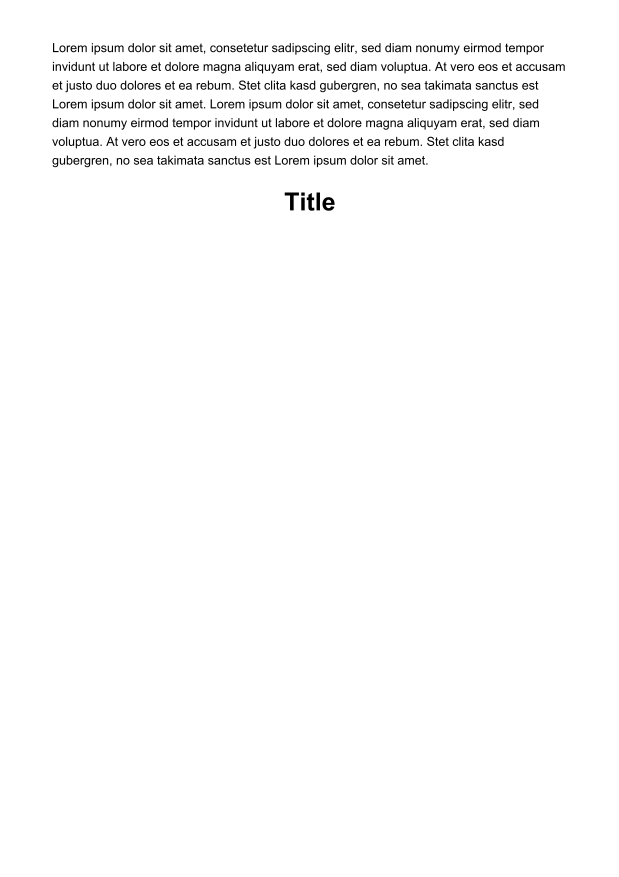
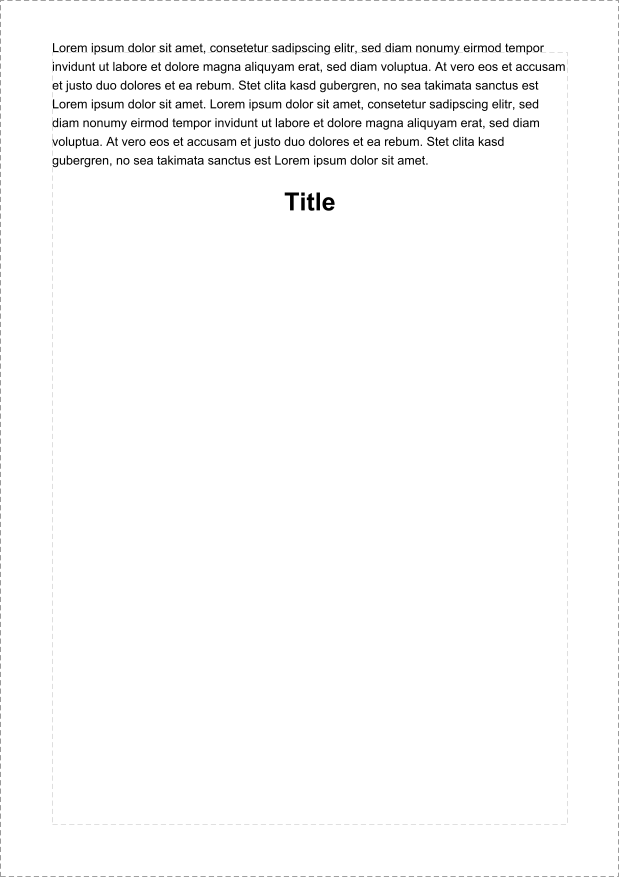
page borders

Changed region(s): [[0.9822, 0.9852, 1.0, 1.0]]

diff --git a/src/test/java/de/flapdoodle/pdf/howto/PageBorders.java b/src/test/java/de/flapdoodle/pdf/howto/PageBorders.java
@@ -1,0 +1,64 @@
+/*
+ * Copyright (C) 2016
+ *   Michael Mosmann <michael@mosmann.de>
+ *
+ * Licensed under the Apache License, Version 2.0 (the "License");
+ * you may not use this file except in compliance with the License.
+ * You may obtain a copy of the License at
+ *
+ *         http://www.apache.org/licenses/LICENSE-2.0
+ *
+ * Unless required by applicable law or agreed to in writing, software
+ * distributed under the License is distributed on an "AS IS" BASIS,
+ * WITHOUT WARRANTIES OR CONDITIONS OF ANY KIND, either express or implied.
+ * See the License for the specific language governing permissions and
+ * limitations under the License.
+ */
+package de.flapdoodle.pdf.howto;
+
+import com.lowagie.text.Document;
+import com.lowagie.text.Rectangle;
+import com.lowagie.text.pdf.PdfContentByte;
+import com.lowagie.text.pdf.PdfPageEvent;
+import com.lowagie.text.pdf.PdfWriter;
+import de.flapdoodle.pdf.pages.EnhancedPdfPageEventHelper;
+import de.flapdoodle.pdf.pages.PageBox;
+import de.flapdoodle.pdf.pages.PdfPageEvents;
+
+import java.awt.*;
+
+public class PageBorders {
+	public static PdfPageEvent renderDocumentHints() {
+		return new EnhancedPdfPageEventHelper() {
+			@Override
+			public void onEndPage(PdfWriter writer, Document document) {
+				PdfContentByte canvas = writer.getDirectContent();
+
+				canvas.saveState();
+
+//				canvas.setLineWidth(1f);
+				canvas.setLineDash(5f, 3f, 0f);  // 5pt Strich, 3pt Lücke
+
+				Rectangle innerBox = PageBox.innerBox(document).asRectangle();
+				innerBox.setBorder(Rectangle.BOX);
+				innerBox.setBorderColor(Color.LIGHT_GRAY);
+				innerBox.setBorderWidth(0.5f);
+				canvas.rectangle(innerBox);
+				canvas.stroke();
+
+				Rectangle pageBox = PageBox.fullPageBox(document).asRectangle();
+				pageBox.setBorder(Rectangle.BOX);
+				pageBox.setBorderColor(Color.DARK_GRAY);
+				pageBox.setBorderWidth(0.5f);
+				pageBox.setRight(pageBox.getRight() - 2*0.5f);
+				pageBox.setTop(pageBox.getTop() - 0.5f);
+				pageBox.setBottom(pageBox.getBottom() + 0.5f);
+				canvas.rectangle(pageBox);
+				canvas.stroke();
+
+
+				canvas.restoreState();
+			}
+		};
+	}
+}

diff --git a/src/test/java/de/flapdoodle/pdf/howto/BlocksTest.java b/src/test/java/de/flapdoodle/pdf/howto/BlocksTest.java
@@ -1,3 +1,19 @@
+/*
+ * Copyright (C) 2016
+ *   Michael Mosmann <michael@mosmann.de>
+ *
+ * Licensed under the Apache License, Version 2.0 (the "License");
+ * you may not use this file except in compliance with the License.
+ * You may obtain a copy of the License at
+ *
+ *         http://www.apache.org/licenses/LICENSE-2.0
+ *
+ * Unless required by applicable law or agreed to in writing, software
+ * distributed under the License is distributed on an "AS IS" BASIS,
+ * WITHOUT WARRANTIES OR CONDITIONS OF ANY KIND, either express or implied.
+ * See the License for the specific language governing permissions and
+ * limitations under the License.
+ */
 package de.flapdoodle.pdf.howto;
 
 import com.lowagie.text.Font;
@@ -70,6 +86,7 @@ public class BlocksTest {
 	private byte[] render(Block ... blocks) {
 		DocumentFactory factory = DocumentFactory.builder()
 			.pageSize(PageSize.A4)
+			.addOnPageEvents(PageBorders.renderDocumentHints())
 			.addBlocks(blocks)
 			.build();
 

diff --git a/src/main/java/de/flapdoodle/pdf/Meta.java b/src/main/java/de/flapdoodle/pdf/Meta.java
@@ -1,3 +1,19 @@
+/*
+ * Copyright (C) 2016
+ *   Michael Mosmann <michael@mosmann.de>
+ *
+ * Licensed under the Apache License, Version 2.0 (the "License");
+ * you may not use this file except in compliance with the License.
+ * You may obtain a copy of the License at
+ *
+ *         http://www.apache.org/licenses/LICENSE-2.0
+ *
+ * Unless required by applicable law or agreed to in writing, software
+ * distributed under the License is distributed on an "AS IS" BASIS,
+ * WITHOUT WARRANTIES OR CONDITIONS OF ANY KIND, either express or implied.
+ * See the License for the specific language governing permissions and
+ * limitations under the License.
+ */
 package de.flapdoodle.pdf;
 
 import org.immutables.value.Value;
